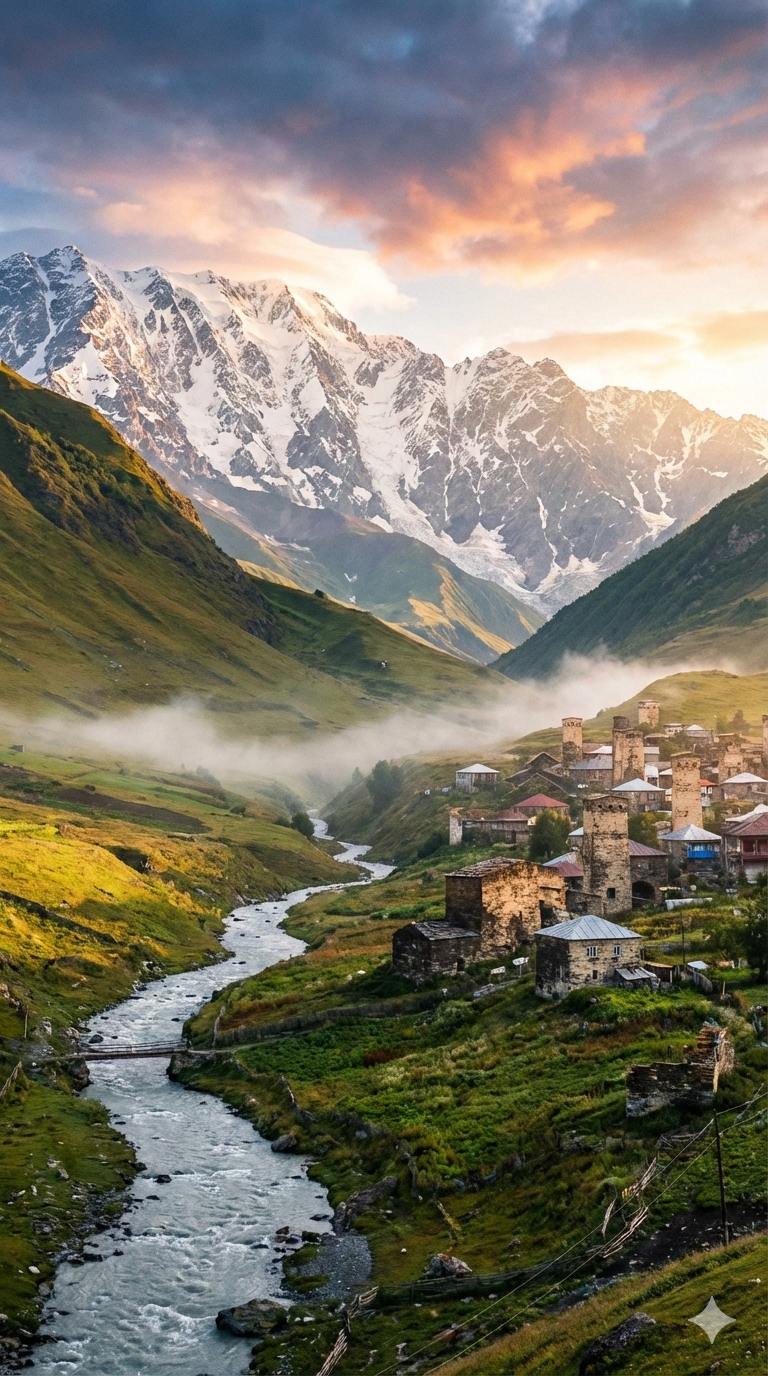
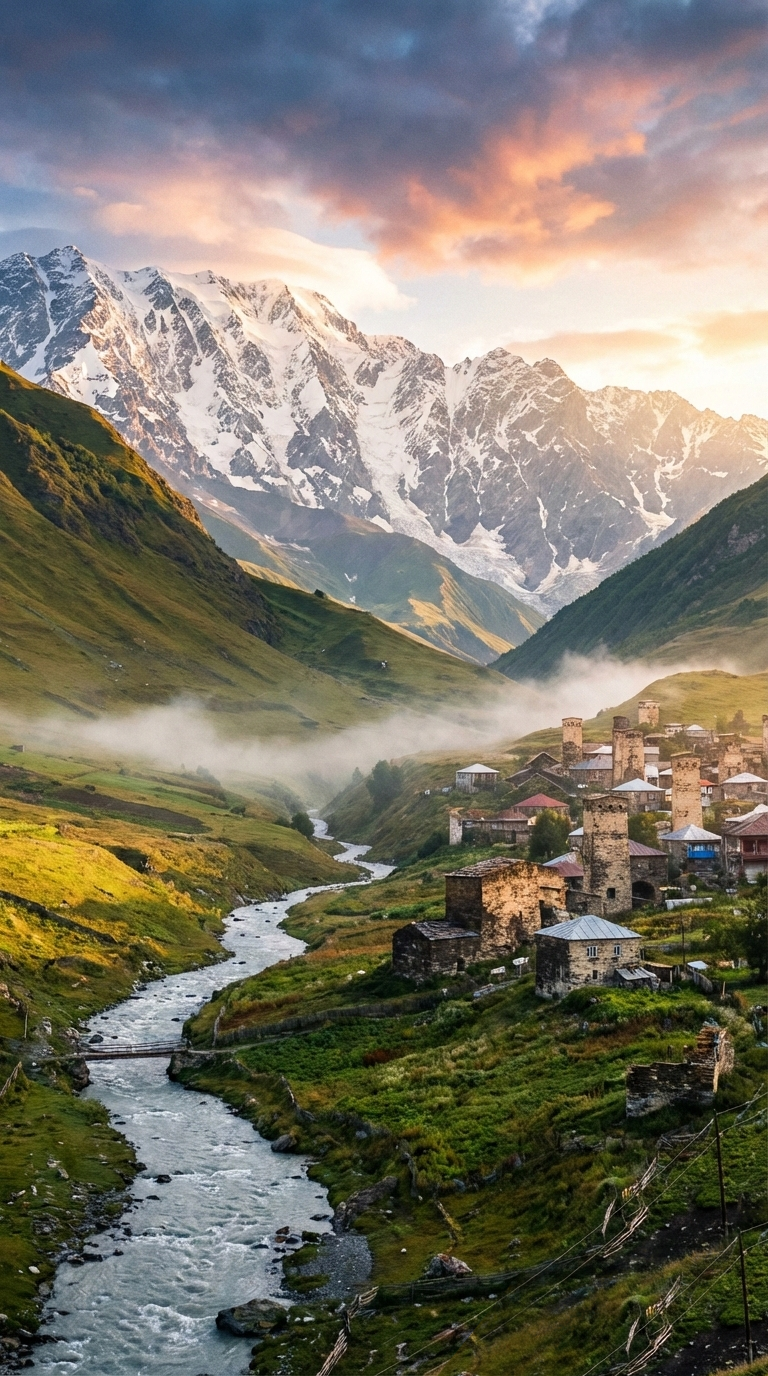
1
da

Changed region(s): [[0.5625, 0.875, 1.0, 1.0]]

diff --git a/footer.html b/footer.html
@@ -9,7 +9,7 @@
         <a href="https://www.instagram.com/discover_georgiaa/?fbclid=IwZXh0bgNhZW0CMTAAYnJpZBExS054dUNUakZiMFJsdWZXUnNydGMGYXBwX2lkEDIyMjAzOTE3ODgyMDA4OTIAAR4AR42cbJE0ikjHsxeATPhDGLiewzLQ34nXBqc2bikClEkKorzgC0O8O5d3tA_aem_W3fLB_3LjzBrq0iCQ3dl1g#"><i class="fab fa-instagram"></i></a>
         <a href="https://api.whatsapp.com/send/?phone=995599186927&text&type=phone_number&app_absent=0"><i class="fab fa-whatsapp"></i></a>
         <a href=" https://www.snapchat.com/@aslan_georgia?invite_id=0Y0eNJew&locale=en_GE&share_id=wW5EBgIMRlS6DKwl9IyQKA&sid=1460a6139caf4ee783266e6717d128ab "><i class="fab fa-snapchat"></i></a>
-        <a href=" "><i class="fab fa-telegram"></i></a>
+        <a href="https://t.me/Georgia_Trips7"><i class="fab fa-telegram"></i></a>
       </div>
        <p><i class="fas fa-phone"></i> +995 599 18 69 27</p>
     </div>
